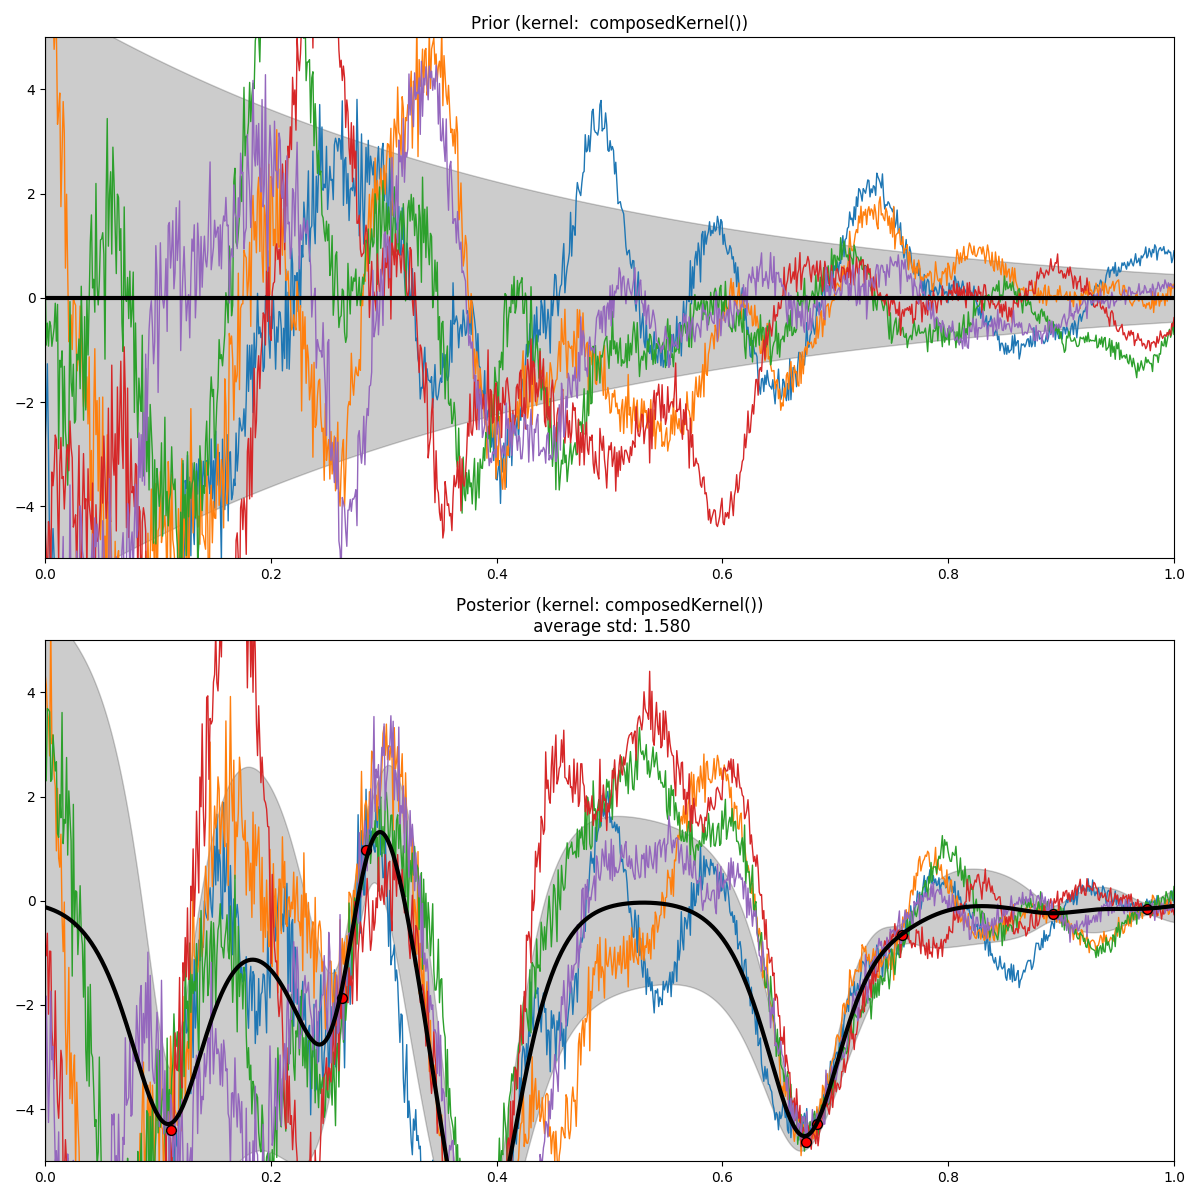
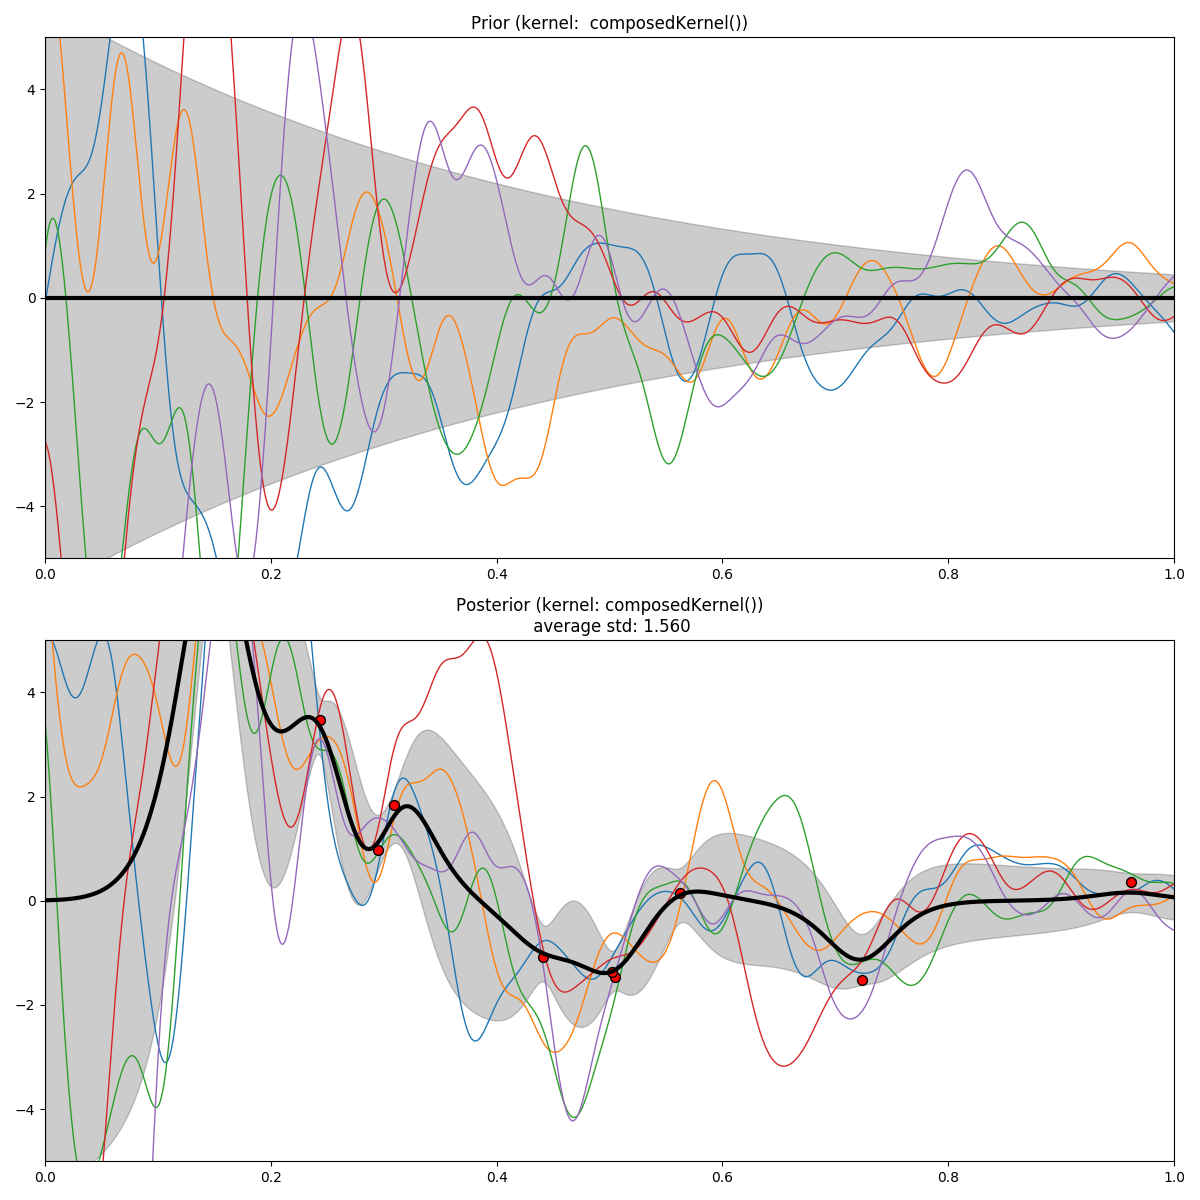
0515

diff --git a/src/small/gpucb_test.py b/src/small/gpucb_test.py
@@ -31,6 +31,10 @@ def decomposed_gpucb(coefficients, subkernels, target_function_list, X_, sample_
     delta = 0.01
     sample_size, feature_size = X_.shape
     current_sample_size = len(sample_X_indices)
+    noise_list = np.random.normal(scale=np.sqrt(gp_alpha), size=(time_horizon, current_sample_size))
+    aggregated_noise_list = np.sum(np.array([coefficients[t](X_[sample_X_indices]) for t in range(time_horizon)]) * noise_list, axis=0).tolist()
+    print("Aggregated noize list: {0}".format(aggregated_noise_list))
+    outcome_list = []
 
     target_function = np.zeros(sample_size)
     for t in range(time_horizon):
@@ -46,8 +50,9 @@ def decomposed_gpucb(coefficients, subkernels, target_function_list, X_, sample_
     if f_output:
         f_output.write("decomposed gpucb, global max, {0}, global min, {1}, range, {2}, ".format(maximum_value, minimum_value, maximum_value - minimum_value))
 
-    existing_regret = np.mean(maximum_value - target_function[sample_X_indices])
-    average_regret_list = [existing_regret]
+    sample_regret_list = (maximum_value - target_function[sample_X_indices]).tolist()
+    average_regret_list = [np.mean(sample_regret_list)]
+    
     for iteration in range(current_sample_size, iterations):
         #gp_list = []
         sample_X = X_[sample_X_indices]
@@ -55,9 +60,10 @@ def decomposed_gpucb(coefficients, subkernels, target_function_list, X_, sample_
         y_variance = np.zeros(sample_size)
         for t in range(time_horizon):
             sub_target_function = target_function_list[t]
-            sample_y = sub_target_function[sample_X_indices]
+            sample_y = sub_target_function[sample_X_indices] + noise_list[t]
             gp = GaussianProcessRegressor(kernel=subkernels[t], optimizer=None, alpha=gp_alpha)
             #gp = GaussianProcessRegressor(kernel=subkernels[t], alpha=gp_alpha)
+
             gp.fit(sample_X, sample_y)
             y_sub_mean, y_sub_std = gp.predict(X_, return_std=True)
 
@@ -81,17 +87,28 @@ def decomposed_gpucb(coefficients, subkernels, target_function_list, X_, sample_
 
         sample_X_indices = np.concatenate((sample_X_indices, [argmax_x]), axis=0)
 
-        average_regret = np.mean(maximum_value - target_function[sample_X_indices])
+        sample_noise = np.random.normal(scale=np.sqrt(gp_alpha), size=(time_horizon, 1))
+        sample_outcome = target_function[argmax_x] #+ np.dot(np.array([coefficients[t](X_[argmax_x]) for t in range(time_horizon)]).reshape(time_horizon), sample_noise.reshape(time_horizon))
+
+        aggregated_noise_list.append(np.dot(np.array([coefficients[t](X_[argmax_x]) for t in range(time_horizon)]).reshape(time_horizon), sample_noise.reshape(time_horizon)))
+
+        noise_list = np.concatenate((noise_list, sample_noise), axis=1)
+        outcome_list.append(sample_outcome)
+
+        sample_regret = maximum_value - sample_outcome
+        sample_regret_list.append(sample_regret)
+        average_regret = np.mean(sample_regret_list)
         average_regret_list.append(average_regret)
-        current_maximum = np.max(target_function[sample_X_indices])
+        current_maximum = np.max(outcome_list)
         print("Decomposed GP, iteration: {0}, average regret: {1}, current maximum: {2}, b_t: {3}".format(iteration, average_regret, current_maximum, b_iteration))
 
     if f_output:
         f_output.write("regret, " + ", ".join([str(x) for x in average_regret_list]) + "\n")
 
+    print("Aggregated noize STD: {0}".format(np.std(aggregated_noise_list)))
     return sample_X_indices
 
-def entire_gpucb(coefficients, subkernels, target_function_list, X_, sample_X_indices, iterations, gp_alpha, upper_bound, f_output=None):
+def entire_gpucb(coefficients, subkernels, target_function_list, X_, sample_X_indices, iterations, gp_alpha, upper_bound, coefficient_square_upper_bound_sum, f_output=None):
     assert(len(coefficients) == len(subkernels))
     dimension = X_.shape[1]
     time_horizon = len(coefficients)
@@ -107,6 +124,17 @@ def entire_gpucb(coefficients, subkernels, target_function_list, X_, sample_X_in
         multiply_coefficient = coefficients[t](X_)
         target_function += sub_target_function[:,0] * multiply_coefficient
 
+    # TODO noisy outcome
+    noise_list = np.random.normal(scale=np.sqrt(gp_alpha), size=(time_horizon, current_sample_size))
+    coefficient_list = np.array([coefficients[t](X_[sample_X_indices]) for t in range(time_horizon)])
+    outcome_list = []
+
+    target_function = np.zeros(sample_size)
+    for t in range(time_horizon):
+        sub_target_function = target_function_list[t]
+        multiply_coefficient = coefficients[t](X_)
+        target_function += sub_target_function[:,0] * multiply_coefficient
+
     best_x = np.argmax(target_function)
     maximum_value = target_function[best_x]
     minimum_value = np.min(target_function)
@@ -115,8 +143,8 @@ def entire_gpucb(coefficients, subkernels, target_function_list, X_, sample_X_in
     if f_output:
         f_output.write("entire gpucb, global max, {0}, global min, {1}, range, {2}, ".format(maximum_value, minimum_value, maximum_value - minimum_value))
 
-    existing_regret = np.mean(maximum_value - target_function[sample_X_indices])
-    average_regret_list = [existing_regret]
+    sample_regret_list = (maximum_value - target_function[sample_X_indices]).tolist()
+    average_regret_list = [np.mean(sample_regret_list)]
 
     # ------------------ composition of subkernels --------------------
     ck = composedKernel(coefficients, subkernels)
@@ -126,10 +154,11 @@ def entire_gpucb(coefficients, subkernels, target_function_list, X_, sample_X_in
     for iteration in range(current_sample_size, iterations):
         #gp_list = []
         sample_X = X_[sample_X_indices]
-        sample_y = target_function[sample_X_indices]
+        sample_y = target_function[sample_X_indices] + [np.dot(noise_list[:,i], coefficient_list[:,i]) for i in range(iteration)] 
+        #print("aggregated noise list: {0}".format([np.dot(noise_list[:,i], coefficient_list[:,i]) for i in range(iteration)]))
 
         # ----------------------- gp regression -----------------------
-        gp = GaussianProcessRegressor(kernel=ck, optimizer=None, alpha=gp_alpha)
+        gp = GaussianProcessRegressor(kernel=ck, optimizer=None, alpha=gp_alpha*coefficient_square_upper_bound_sum)
         gp.fit(sample_X, sample_y)
 
         y_mean, y_std = gp.predict(X_, return_std=True)
@@ -141,13 +170,24 @@ def entire_gpucb(coefficients, subkernels, target_function_list, X_, sample_X_in
 
         sample_X_indices = np.concatenate((sample_X_indices, [argmax_x]), axis=0)
 
-        average_regret = np.mean(maximum_value - target_function[sample_X_indices])        
+        sample_noise = np.random.normal(scale=np.sqrt(gp_alpha), size=(time_horizon, 1))
+        sample_outcome = target_function[argmax_x] #+ np.dot(np.array([coefficients[t](X_[argmax_x]) for t in range(time_horizon)]).reshape(time_horizon), sample_noise.reshape(time_horizon))
+
+        noise_list = np.concatenate((noise_list, sample_noise), axis=1)
+        coefficient_list = np.concatenate((coefficient_list, np.array([coefficients[t](X_[argmax_x]) for t in range(time_horizon)])), axis=1)
+        outcome_list.append(sample_outcome)
+
+        sample_regret = maximum_value - sample_outcome
+        sample_regret_list.append(sample_regret)
+        average_regret = np.mean(sample_regret_list)
         average_regret_list.append(average_regret)
-        current_maximum = np.max(target_function[sample_X_indices])
+        current_maximum = np.max(outcome_list)
         print("Entire GP, iteration: {0}, average regret: {1}, current maximum: {2}, b_t: {3}".format(iteration, average_regret, current_maximum, b_iteration))
 
     if f_output:
         f_output.write("regret, " + ", ".join([str(x) for x in average_regret_list]) + "\n")
+
+    print("Aggregated noize STD: {0}".format(np.std([np.dot(noise_list[:,i], coefficient_list[:,i]) for i in range(iteration)])))
 
     return sample_X_indices
 
@@ -181,7 +221,7 @@ if __name__ == "__main__":
     #            1.0 * Matern(length_scale=1.0, length_scale_bounds=(1e-1, 10.0),
     #                         nu=1.5)]
     
-    time_horizon = 32
+    time_horizon = 8
     fig_index = 0
     grid_size = 1000
     bias_sample_size = 1
@@ -189,8 +229,8 @@ if __name__ == "__main__":
     posterior_sample_size = 30
     visible_region = 5
     plot_detail = False
-    individual_alpha = 0.01
-    gp_alpha = 1e-10
+    #individual_alpha = 0.01
+    gp_alpha = 0.05
     iterations = 100
     output_filename = "result/result_0508.csv"
 
@@ -200,11 +240,11 @@ if __name__ == "__main__":
     np.random.seed()
 
     # ======================== coefficients and sub-kernels ===========================
-    coefficients = [lambda X: np.array([((1 - float(X[i])/(5.0 * upper_bound)))**(t/3.0 + 1) for i in range(len(X))]) for t in range(time_horizon) ]
-    #coefficients = [f1] * time_horizon
-    subkernels = [RBF(length_scale=(np.random.randint(20,50))*0.001,) + WhiteKernel(noise_level=individual_alpha) for i in range(time_horizon)]
+    #coefficients = [lambda X: np.array([((1 - float(X[i])/(5.0 * upper_bound)))**(t/3.0 + 1) for i in range(len(X))]) for t in range(time_horizon) ]
+    coefficients = [f1] * time_horizon
+    #subkernels = [RBF(length_scale=(np.random.randint(20,50))*0.001,) for i in range(time_horizon)]
     #subkernels = [RBF(length_scale=(5)*0.005,) + WhiteKernel(noise_level=individual_alpha) for i in range(time_horizon)]
-    #subkernels = [Matern(length_scale=(i+10)*0.05, nu=1.5) + WhiteKernel(noise_level=individual_alpha) for i in range(time_horizon)]
+    subkernels = [Matern(length_scale=(np.random.randint(20,50))*0.001, nu=1.5) for i in range(time_horizon)]
     
     ck = composedKernel(coefficients, subkernels)
 
@@ -225,6 +265,10 @@ if __name__ == "__main__":
     y_whole_variance = np.zeros((grid_size))
 
     whole_log_likelihood = 0
+
+    coefficient_square_upper_bound_list = [np.max(np.square(coefficients[t](X_))) for t in range(time_horizon)]
+    coefficient_square_upper_bound_sum = np.sum(coefficient_square_upper_bound_list)
+    print("coefficient square upper bound sum: {0}".format(coefficient_square_upper_bound_sum))
 
     y_sample_list = []
     y_whole_posterior_samples = np.zeros((grid_size, posterior_sample_size))
@@ -299,7 +343,7 @@ if __name__ == "__main__":
     y_whole_std = np.sqrt(y_whole_variance)
 
     decomposed_gpucb_indices = decomposed_gpucb(coefficients, subkernels, y_sample_list, X_, random_indices, iterations, gp_alpha, upper_bound, f_output)
-    entire_gpucb_indices = entire_gpucb(coefficients, subkernels, y_sample_list, X_, random_indices, iterations, gp_alpha, upper_bound, f_output)
+    entire_gpucb_indices = entire_gpucb(coefficients, subkernels, y_sample_list, X_, random_indices, iterations, gp_alpha, upper_bound, coefficient_square_upper_bound_sum, f_output)
 
     f_output.close()
 

diff --git a/src/small/plot_gpr_prior_posterior.py b/src/small/plot_gpr_prior_posterior.py
@@ -63,9 +63,9 @@ if __name__ == "__main__":
     posterior_sample_size = 5
     visible_region = 5
     plot_detail = False
-    individual_alpha = 0.01
+    #individual_alpha = 0.01
     random_seed = np.random.randint(0,10000)
-    gp_alpha = 0
+    gp_alpha = 0.01
 
     np.random.seed()
 
@@ -73,7 +73,9 @@ if __name__ == "__main__":
 
     #coefficients = [f1] * time_horizon
     coefficients = [lambda X: np.array([((1.0 - float(X[i])/(5.0 * upper_bound)))**(t/3.0 + 1) for i in range(len(X))]) for t in range(time_horizon) ]
-    subkernels = [RBF(length_scale=(np.random.randint(20,50))*0.001) + WhiteKernel(noise_level=individual_alpha) for t in range(time_horizon)]
+    subkernels = [RBF(length_scale=(np.random.randint(20,50))*0.001) for t in range(time_horizon)]
+    #subkernels = [Matern(length_scale=(np.random.randint(20,50))*0.001, nu=1.5) for i in range(time_horizon)]
+
     
     ck = composedKernel(coefficients, subkernels)
 
@@ -94,6 +96,10 @@ if __name__ == "__main__":
     y_whole_variance = np.zeros((grid_size))
 
     whole_log_likelihood = 0
+
+    coefficient_square_upper_bound_list = [np.max(np.square(coefficients[t](X_))) for t in range(time_horizon)]
+    coefficient_square_upper_bound_sum = np.sum(coefficient_square_upper_bound_list)
+    print("coefficient square upper bound sum: {0}".format(coefficient_square_upper_bound_sum))
 
     y_sample_list = []
     y_whole_posterior_samples = np.zeros((grid_size, posterior_sample_size))
@@ -194,7 +200,7 @@ if __name__ == "__main__":
 
 
     # =========== without decomposition Gaussian process regression =============
-    gp = GaussianProcessRegressor(kernel=ck, optimizer=None, alpha=gp_alpha)
+    gp = GaussianProcessRegressor(kernel=ck, optimizer=None, alpha=gp_alpha*coefficient_square_upper_bound_sum)
 
     y_mean, y_std = gp.predict(X_, return_std=True)
     y_samples = gp.sample_y(X_, posterior_sample_size, random_seed)
